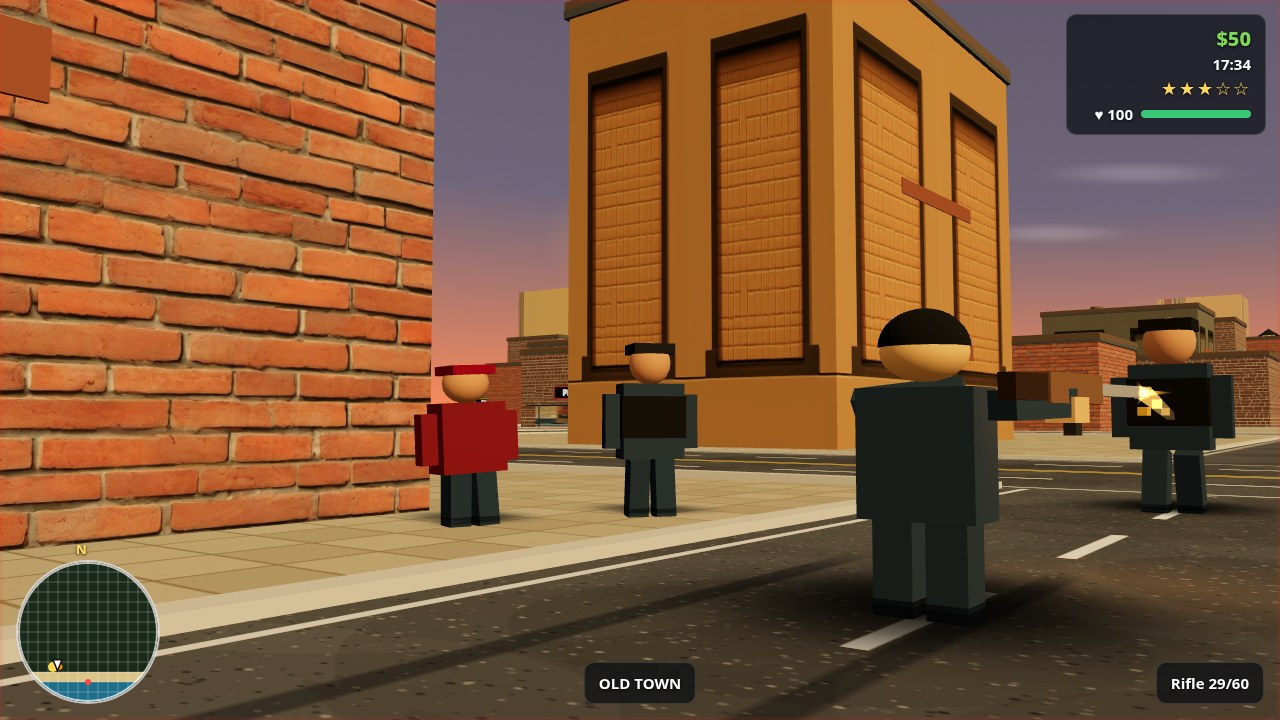
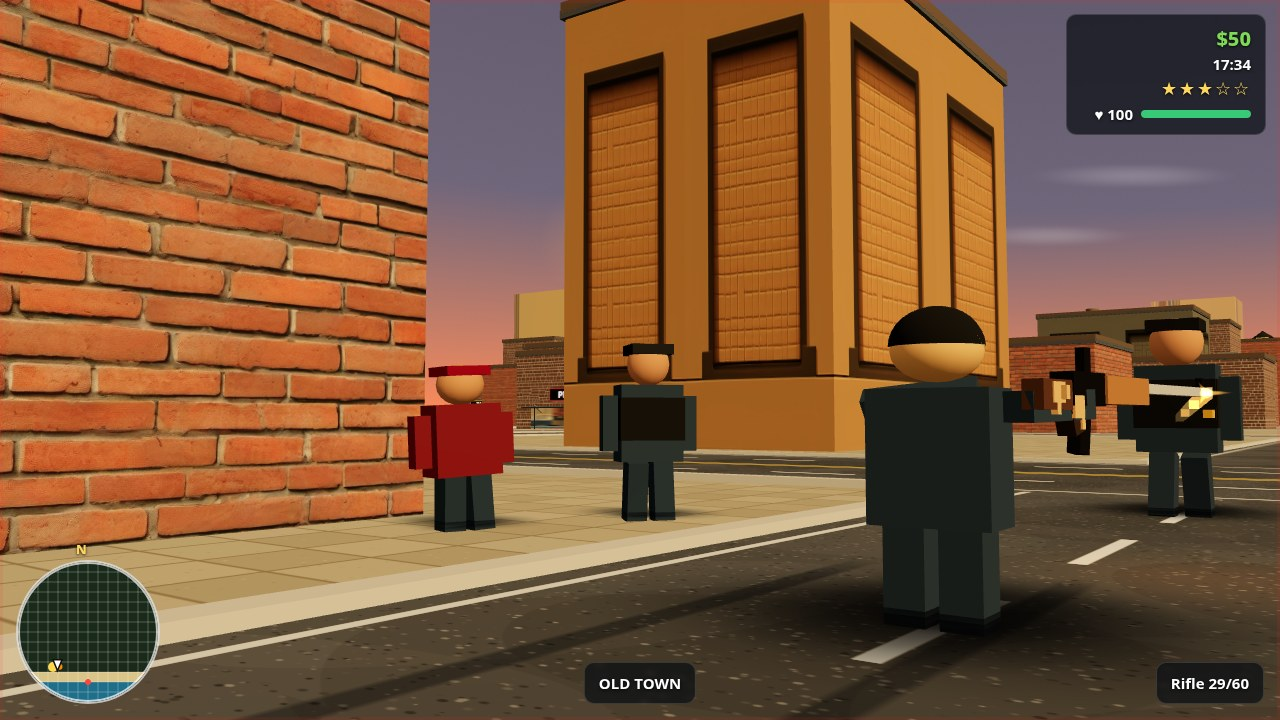
v53: rebuild rifle (true size, light barrel, two hands), one-gradient sun, delete diagonal plank, shot-3 shadows, taxi roof sign, bus sign clear
- Rifle (player.js + shot-4 fgRifle): built once at true size — 1.4 m thin
  light-grey barrel past the near hand, tan handguard, slim near-black
  receiver, dropped dark-wood stock, magazine below, sight + front-sight
  post, two skin hands with fingers (grip + stock). Muzzle anchor z 1.6.
- Sun (shot 4): one radial gradient, cream core bleeding into warm
  orange, no ring/gap; halo widened (30->36, 50->60) and lightened.
- Plank (shot 2): deleted the tall-building side fins — they were
  0.06x0.7x(d*0.4) LONG HORIZONTAL bars, not vertical pilasters; one
  read as a diagonal brown plank across the window bay.
- Shot 3: contact shadows 0.6->0.75, ~20% smaller, under the wheels.
- Taxi roof sign: lowered 0.16 m flush + recoloured dark into the cap.
- Centre gunman (shot 4): 1.5 m south, clear of BUS / ROUTES.
Dossier text 163819/163840 B, dossier.json 1073009 B.

diff --git a/game/src/shots.js b/game/src/shots.js
@@ -43,32 +43,20 @@ function sunTex() {
   const c = document.createElement('canvas');
   c.width = 256; c.height = 256;
   const x = c.getContext('2d');
-  // Core: vertical gradient, clipped to a disc.
-  x.save();
-  x.beginPath(); x.arc(128, 128, 78, 0, PI * 2); x.clip();
-  const vg = x.createLinearGradient(0, 50, 0, 206);
-  vg.addColorStop(0, '#fffdf4');
-  vg.addColorStop(0.55, '#ffe9b0');
-  vg.addColorStop(1, '#ffcf8a');
-  x.fillStyle = vg; x.fillRect(0, 0, 256, 256);
-  x.restore();
-  // Soft edge: fade the disc out with a radial alpha mask.
-  x.globalCompositeOperation = 'destination-in';
-  const rg = x.createRadialGradient(128, 128, 40, 128, 128, 78);
-  rg.addColorStop(0, 'rgba(0,0,0,1)');
-  rg.addColorStop(0.8, 'rgba(0,0,0,1)');
-  rg.addColorStop(1, 'rgba(0,0,0,0)');
+  // v53: ONE radial gradient, cream core bleeding straight into
+  // warm orange — no second stop band, no gap, no ring. The v52
+  // two-stop corona (rings stroked at r96/r116, outside the r78
+  // core disc) read as a bullseye: white core, plain-sky gap, hard
+  // saturated orange ring (Quick, severe). Here the core is cream
+  // to ~0.35, warm orange by 0.5, fading to transparent at the
+  // edge — the halo sprites below do the wide bloom.
+  const rg = x.createRadialGradient(128, 128, 0, 128, 128, 128);
+  rg.addColorStop(0, '#fff8e2');
+  rg.addColorStop(0.35, '#ffedb5');
+  rg.addColorStop(0.5, '#ffd28a');
+  rg.addColorStop(0.7, 'rgba(255,170,80,0.5)');
+  rg.addColorStop(1, 'rgba(255,150,60,0)');
   x.fillStyle = rg; x.fillRect(0, 0, 256, 256);
-  x.globalCompositeOperation = 'source-over';
-  // Two-stop corona ring: two soft orange rings around the core.
-  x.shadowColor = 'rgba(255,150,50,0.9)';
-  x.shadowBlur = 12;
-  x.strokeStyle = 'rgba(255,176,90,0.85)';
-  x.lineWidth = 7;
-  x.beginPath(); x.arc(128, 128, 96, 0, PI * 2); x.stroke();
-  x.strokeStyle = 'rgba(255,150,50,0.5)';
-  x.lineWidth = 10;
-  x.beginPath(); x.arc(128, 128, 116, 0, PI * 2); x.stroke();
   _sunTex = new CT(c);
   _sunTex.colorSpace = SC;
   return _sunTex;
@@ -536,8 +524,9 @@ function stageGunfight(game) {
   rifle.position.set(-0.6, 1.6, 0.5);
   rifle.rotation.set(0, -0.15, 0);
   rifle.scale.setScalar(1.5);
-  if (rifle.children[0]) rifle.children[0].material.color.setHex(0x999999);
-  if (rifle.children[1]) rifle.children[1].material.color.setHex(0x7a5a3a);
+  // v53: colours live in the rifle builder (player.js) now — the
+  // light barrel + tan handguard are part of the rebuild, not a
+  // staging override, so no children[] recolour here.
   // The arms are posed AFTER game.step (below) — updatePlayerOnFoot
   // resets both arms every step, so the v51 pre-step pose never
   // survived (the second root cause of the floating gun).
@@ -727,6 +716,13 @@ function stageDowntown(game) {
   // x=0.3, and the old -1.27 sat inside the cabin (rear face at
   // cab.x - bodyLen*0.26), so neither ever showed.
   const sign = taxi.mesh.userData.roofSign;
+  // v53: lower the roof sign flush and recolour it into the cap —
+  // the pale yellow slab read as a cream plate sitting on the black
+  // cabin (the sign's east face is blank from this camera; the TAXI
+  // text plane is on its south face, edge-on here). Sunk 0.16 m so
+  // only a thin dark sliver shows, and dark so it reads as the cap.
+  sign.position.y -= 0.16;
+  sign.material = new MS({ color: 0x2a2a2a, roughness: 0.6 });
   const tsign = new ME(new PG(0.9, 0.25), new MB({ map: taxiTextTex() }));
   tsign.rotation.y = -PI / 2;
   tsign.position.set(sign.position.x - 0.46, sign.position.y, 0);
@@ -801,13 +797,17 @@ function stageDowntown(game) {
   // none, so they floated on the asphalt (Quick + Superbot v51).
   // Taxi + 3 traffic + 3 parked; long side along each car's heading
   // (PI/2 = north-south, 0/PI = east-west).
-  blob(game, 248, -184.5, 3.0, 5.5, 0.6, 0.1);
-  blob(game, 228, -177, 5.5, 3.0, 0.6, 0.1);
-  blob(game, 220, -183, 5.5, 3.0, 0.6, 0.1);
-  blob(game, 243, -200, 3.0, 5.5, 0.6, 0.1);
-  blob(game, 243, -194, 3.0, 5.5, 0.6, 0.1);
-  blob(game, 242.3, -168.84, 3.0, 5.5, 0.6, 0.1);
-  blob(game, 244.5, -204, 3.0, 5.5, 0.6, 0.1);
+  // v53: opacity 0.75 (was 0.6) and ~20% smaller, so the blob sits
+  // under the wheels instead of pooling — the van and the taxi had
+  // a soft darkening, the green/blue cars and far traffic had none
+  // (Quick + Superbot, should-fix).
+  blob(game, 248, -184.5, 2.4, 4.4, 0.75, 0.1);
+  blob(game, 228, -177, 4.4, 2.4, 0.75, 0.1);
+  blob(game, 220, -183, 4.4, 2.4, 0.75, 0.1);
+  blob(game, 243, -200, 2.4, 4.4, 0.75, 0.1);
+  blob(game, 243, -194, 2.4, 4.4, 0.75, 0.1);
+  blob(game, 242.3, -168.84, 2.4, 4.4, 0.75, 0.1);
+  blob(game, 244.5, -204, 2.4, 4.4, 0.75, 0.1);
   // 6 pedestrians in the hero zone.
   const walkers = [[232, -168], [248, -168], [232, -192], [248, -192], [240, -165], [240, -195]];
   game.peds.slice(0, 6).forEach((p, i) => {
@@ -938,13 +938,16 @@ function stageSunset(game) {
   // WEST (rotation.y = PI/2 + PI), BACK TO the east camera — the old
   // PI/2 faced him north, so the camera saw his FACE and the shot
   // lost the over-the-shoulder read (v43).
-  const r = game.combat.spawnGunman(240, -183);
+  // v53: 1.5 m south (z -183 -> -181.5) — 'ROUTES' sat behind his
+  // head and the BUS sign crowded it (Superbot, should-fix). His
+  // shadow blob + core move with him.
+  const r = game.combat.spawnGunman(240, -181.5);
   r.mesh.children[8].visible = r.mesh.children[9].visible = false;
   r.mesh.rotation.y = PI / 2 + PI;
-  blob(game, 240, -183, 5.0, 4.0, 0.65, 0.12);
+  blob(game, 240, -181.5, 5.0, 4.0, 0.65, 0.12);
   const core = new ME(new PG(2.5, 1.8), SH(blobShadowTexture(), 0.85));
   core.rotation.x = -PI / 2;
-  core.position.set(240, 0.13, -183);
+  core.position.set(240, 0.13, -181.5);
   core.renderOrder = 3;
   game.scene.add(core);
   const p = game.player;
@@ -1086,14 +1089,14 @@ function stageSunset(game) {
     sunDisc.scale.set(8, 8, 1);
     sunDisc.renderOrder = 999;
     game.scene.add(sunDisc);
-    const sunHalo = new THREE.Sprite(new THREE.SpriteMaterial({ map: sunPool, color: 0xff9a2e, transparent: true, opacity: 0.3, depthWrite: false, depthTest: false }));
+    const sunHalo = new THREE.Sprite(new THREE.SpriteMaterial({ map: sunPool, color: 0xffb060, transparent: true, opacity: 0.3, depthWrite: false, depthTest: false }));
     sunHalo.position.set(172, 27, -186);
-    sunHalo.scale.set(30, 30, 1);
+    sunHalo.scale.set(36, 36, 1);
     sunHalo.renderOrder = 998;
     game.scene.add(sunHalo);
-    const sunOuter = new THREE.Sprite(new THREE.SpriteMaterial({ map: sunPool, color: 0xff7a2e, transparent: true, opacity: 0.15, depthWrite: false, depthTest: false }));
+    const sunOuter = new THREE.Sprite(new THREE.SpriteMaterial({ map: sunPool, color: 0xffa050, transparent: true, opacity: 0.15, depthWrite: false, depthTest: false }));
     sunOuter.position.set(172, 27, -186);
-    sunOuter.scale.set(50, 50, 1);
+    sunOuter.scale.set(60, 60, 1);
     sunOuter.renderOrder = 997;
     game.scene.add(sunOuter);
   }
@@ -1134,27 +1137,72 @@ function stageSunset(game) {
   // the parts separate by colour as well as by shape, plus a
   // handguard wrapping the barrel's rear and a sight breaking the
   // top silhouette.
+  // v53 REBUILD — same canonical rifle as the player's (player.js):
+  // long thin LIGHT barrel, fatter tan handguard, slim near-black
+  // receiver, dropped dark-wood stock, magazine below, sight on top,
+  // front-sight post near the muzzle, two skin hands with fingers
+  // (grip + stock). The v52 fgRifle was a chunky dark barrel +
+  // dark receiver + tan guard/stock — it merged into one long
+  // brown plank with an orange segment (Quick, severe).
   const fgRifle = new THREE.Group();
-  const fgRifleMat = new MS({ color: 0x1a1a1a, roughness: 0.4 });
-  const fgRifleWood = new MS({ color: 0x8a6b4f, roughness: 0.8 });
-  const fgBarrel = new ME(new BX(0.09, 0.09, 0.85), fgRifleMat);
-  fgBarrel.position.set(0, 0.04, 0.65);
+  const fgBarrelMat = new MS({ color: 0xbbbbbb, roughness: 0.4 });
+  const fgGuardMat = new MS({ color: 0xa9743f, roughness: 0.8 });
+  const fgDarkMat = new MS({ color: 0x1a1a1a, roughness: 0.4 });
+  const fgWoodMat = new MS({ color: 0x5a3a22, roughness: 0.8 });
+  const fgSkinMat = new MS({ color: 0xe0ac69, roughness: 0.8 });
+  const fgBarrel = new ME(new BX(0.05, 0.05, 1.4), fgBarrelMat);
+  fgBarrel.position.set(0, 0.02, 0.9);
   fgRifle.add(fgBarrel);
-  const fgGuard = new ME(new BX(0.14, 0.14, 0.4), fgRifleWood);
-  fgGuard.position.set(0, 0.02, 0.3);
+  const fgGuard = new ME(new BX(0.11, 0.13, 0.45), fgGuardMat);
+  fgGuard.position.set(0, 0, 0.42);
   fgRifle.add(fgGuard);
-  const fgRecv = new ME(new BX(0.13, 0.16, 0.42), fgRifleMat);
-  fgRecv.position.set(0, 0, -0.05);
+  const fgRecv = new ME(new BX(0.09, 0.15, 0.3), fgDarkMat);
+  fgRecv.position.set(0, 0, 0.05);
   fgRifle.add(fgRecv);
-  const fgStock = new ME(new BX(0.12, 0.14, 0.4), fgRifleWood);
-  fgStock.position.set(0, -0.02, -0.45);
+  const fgStock = new ME(new BX(0.08, 0.13, 0.25), fgWoodMat);
+  fgStock.position.set(0, -0.03, -0.225);
   fgRifle.add(fgStock);
-  const fgMag = new ME(new BX(0.07, 0.26, 0.1), fgRifleMat);
-  fgMag.position.set(0, -0.17, 0.0);
+  const fgGrip = new ME(new BX(0.07, 0.16, 0.08), new MS({ color: 0x3a2a18, roughness: 0.8 }));
+  fgGrip.position.set(0, -0.12, -0.05);
+  fgGrip.rotation.x = -0.3;
+  fgRifle.add(fgGrip);
+  const fgMag = new ME(new BX(0.05, 0.24, 0.09), fgDarkMat);
+  fgMag.position.set(0, -0.17, 0.05);
+  fgMag.rotation.x = 0.15;
   fgRifle.add(fgMag);
-  const fgSight = new ME(new BX(0.05, 0.1, 0.06), fgRifleMat);
-  fgSight.position.set(0, 0.13, -0.05);
+  const fgSight = new ME(new BX(0.035, 0.12, 0.06), fgDarkMat);
+  fgSight.position.set(0, 0.13, 0.1);
   fgRifle.add(fgSight);
+  const fgFront = new ME(new BX(0.03, 0.08, 0.03), fgDarkMat);
+  fgFront.position.set(0, 0.06, 1.5);
+  fgRifle.add(fgFront);
+  // Two skin hands with fingers, riding the rifle (grip + stock).
+  const fgHandNear = new THREE.Group();
+  const fgPalmN = new ME(new BX(0.09, 0.1, 0.09), fgSkinMat);
+  fgPalmN.position.set(0, -0.08, -0.05);
+  fgHandNear.add(fgPalmN);
+  for (const fx of [-0.03, 0, 0.03]) {
+    const f = new ME(new BX(0.025, 0.08, 0.03), fgSkinMat);
+    f.position.set(fx, -0.14, -0.01);
+    fgHandNear.add(f);
+  }
+  const fgThumbN = new ME(new BX(0.03, 0.06, 0.03), fgSkinMat);
+  fgThumbN.position.set(0.05, -0.08, -0.08);
+  fgHandNear.add(fgThumbN);
+  fgRifle.add(fgHandNear);
+  const fgHandFar = new THREE.Group();
+  const fgPalmF = new ME(new BX(0.09, 0.09, 0.1), fgSkinMat);
+  fgPalmF.position.set(0, -0.02, -0.225);
+  fgHandFar.add(fgPalmF);
+  for (const fx of [-0.03, 0, 0.03]) {
+    const f = new ME(new BX(0.025, 0.07, 0.03), fgSkinMat);
+    f.position.set(fx, -0.08, -0.225);
+    fgHandFar.add(f);
+  }
+  const fgThumbF = new ME(new BX(0.03, 0.06, 0.03), fgSkinMat);
+  fgThumbF.position.set(-0.05, -0.02, -0.2);
+  fgHandFar.add(fgThumbF);
+  fgRifle.add(fgHandFar);
   fgRifle.position.set(0.45, 1.45, 0.35);
   fgRifle.rotation.set(0.25, 1.0, 0);
   fgGun.mesh.add(fgRifle);

diff --git a/game/src/player.js b/game/src/player.js
@@ -34,22 +34,50 @@ export function createPlayerMesh() {
   const armR = B(group, 0.18, 0.65, 0.2, jacket, 0.44, 1.15, 0);
   // Rifle: barrel along local +z (the player's forward). Shots stage
   // it precisely; here it just needs to exist and point forward.
-  // The barrel is mid-grey, not near-black, so it reads against the
-  // dark road and the muzzle tip does not float detached (v42).
+  // v53 REBUILD (both reviewers, v52): the old rifle was a dark
+  // 0.9 m barrel + dark receiver + a skin block — it read as one
+  // long brown plank with a tan block, not a rifle. This one is
+  // built ONCE at true size with parts that separate by SILHOUETTE
+  // as well as colour: a long thin LIGHT barrel (1.4 m, pale grey,
+  // well past the near hand), a fatter tan handguard, a slim
+  // near-black receiver, a dropped dark-wood stock, a magazine
+  // hanging below, a sight on top and a front-sight post near the
+  // muzzle — plus TWO skin hands with fingers (grip + stock), so
+  // the hold reads two-handed from behind. The muzzle anchor is
+  // the barrel tip (local z 1.6); flash + tracer anchor here.
   const rifle = new GP();
-  B(rifle, 0.06, 0.06, 0.9, mt(0x3a3a3a, 0.4), 0, 0, 0.45);
-  B(rifle, 0.09, 0.14, 0.5, mt(0x3a2a1a, 0.8), 0, 0, 0.1);
-  B(rifle, 0.07, 0.12, 0.28, mt(0x3a2a1a, 0.8), 0, 0, -0.28);
-  B(rifle, 0.05, 0.2, 0.06, mt(0x3a3a3a, 0.4), 0, -0.12, 0.15);
-  // v51: a skin hand ON the grip — the rifle floated above the arm
-  // with air between it and the hand. The hand rides the rifle, so
-  // the grip always reads held even when the arm pose is approximate.
-  B(rifle, 0.12, 0.12, 0.14, skin, 0, -0.1, 0.1);
+  const rBarrel = mt(0xbbbbbb, 0.4);
+  const rGuard = mt(0xa9743f, 0.8);
+  const rDark = mt(0x1a1a1a, 0.4);
+  const rWood = mt(0x5a3a22, 0.8);
+  B(rifle, 0.05, 0.05, 1.4, rBarrel, 0, 0.02, 0.9); // barrel, z 0.2-1.6
+  B(rifle, 0.11, 0.13, 0.45, rGuard, 0, 0, 0.42); // handguard, z 0.2-0.65
+  B(rifle, 0.09, 0.15, 0.3, rDark, 0, 0, 0.05); // receiver, z -0.1-0.2
+  B(rifle, 0.08, 0.13, 0.25, rWood, 0, -0.03, -0.225); // stock, z -0.35--0.1
+  const rGrip = B(rifle, 0.07, 0.16, 0.08, mt(0x3a2a18, 0.8), 0, -0.12, -0.05);
+  rGrip.rotation.x = -0.3;
+  const rMag = B(rifle, 0.05, 0.24, 0.09, rDark, 0, -0.17, 0.05);
+  rMag.rotation.x = 0.15;
+  B(rifle, 0.035, 0.12, 0.06, rDark, 0, 0.13, 0.1); // sight
+  B(rifle, 0.03, 0.08, 0.03, rDark, 0, 0.06, 1.5); // front-sight post
+  // Two skin hands with fingers, riding the rifle: the near hand on
+  // the grip, the far hand on the stock (the far arm cannot reach
+  // the forend — it bends across the chest and its hand lands here).
+  const handNear = new GP();
+  B(handNear, 0.09, 0.1, 0.09, skin, 0, -0.08, -0.05);
+  for (const fx of [-0.03, 0, 0.03]) B(handNear, 0.025, 0.08, 0.03, skin, fx, -0.14, -0.01);
+  B(handNear, 0.03, 0.06, 0.03, skin, 0.05, -0.08, -0.08);
+  rifle.add(handNear);
+  const handFar = new GP();
+  B(handFar, 0.09, 0.09, 0.1, skin, 0, -0.02, -0.225);
+  for (const fx of [-0.03, 0, 0.03]) B(handFar, 0.025, 0.07, 0.03, skin, fx, -0.08, -0.225);
+  B(handFar, 0.03, 0.06, 0.03, skin, -0.05, -0.02, -0.2);
+  rifle.add(handFar);
   // Muzzle anchor: an empty group at the barrel tip. The flash, its
   // light and the tracer all anchor here, so the fire provably comes
   // from the muzzle, never from the waist (v42).
   const muzzle = new GP();
-  muzzle.position.set(0, 0, 0.95);
+  muzzle.position.set(0, 0.02, 1.6);
   rifle.add(muzzle);
   rifle.userData.muzzle = muzzle;
   rifle.position.set(0.3, 1.5, 0.3);

diff --git a/game/src/city.js b/game/src/city.js
@@ -544,15 +544,12 @@ export function buildCity(scene, rng, textures) {
       for (const [pw, pd, px, pz] of [[w + 0.3, 0.4, 0, d / 2], [w + 0.3, 0.4, 0, -d / 2], [0.4, d + 0.3, w / 2, 0], [0.4, d + 0.3, -w / 2, 0]]) box(scene, pw, 0.6, pd, M(0x6a5a4a), x + px, h + 0.5, z + pz);
       if (rng.chance(0.3)) box(scene, 2.5, 1.2, 1.8, M(0x888888), x + w / 4, h + 0.8, z);
       if (h >= 14) {
-        const floors = Math.min(4, Math.floor(h / 7));
-        for (let f = 0; f < floors; f += 1) {
-          // v52: the two horizontal per-floor pieces are DELETED — the
-          // v51 bands still read as loose planks across the window
-          // recesses (Quick, medium to severe). Only the vertical side
-          // fins stay: 0.06 proud of the side walls, they read as
-          // pilasters, not floating ledges.
-          for (const s of [-1, 1]) box(scene, 0.06, 0.7, d * 0.4, M(0x8E5438+f*257,0.7), x + s * (w / 2 + 0.03), 4 + f * 7 + 0.45, z);
-        }
+        // v53: the per-floor side "fins" are DELETED — they were
+        // 0.06 x 0.7 x (d*0.4) LONG HORIZONTAL bars along the side
+        // walls, not vertical pilasters, and from the south camera
+        // one read as a diagonal brown plank across the window bay
+        // (shot 2, Quick + Superbot, severe). No rotated or long
+        // horizontal bars survive on any tall building.
       }
       if (h < 16 && rng.chance(0.8)) {
         // Storefront cell, not a flat dark box — the face shot 2 sees.

diff --git a/game/src/combat.js b/game/src/combat.js
@@ -229,7 +229,7 @@ export function createCombat(game) {
 
   function muzzleWorld() {
     const p = game.player;
-    // The muzzle anchor on the rifle (local z=0.95, the barrel tip) —
+    // The muzzle anchor on the rifle (local z=1.6, the barrel tip) —
     // its world position IS the muzzle, no forward offset guess.
     const rifle = p.mesh.userData.rifle;
     if (rifle && rifle.userData.muzzle) {
